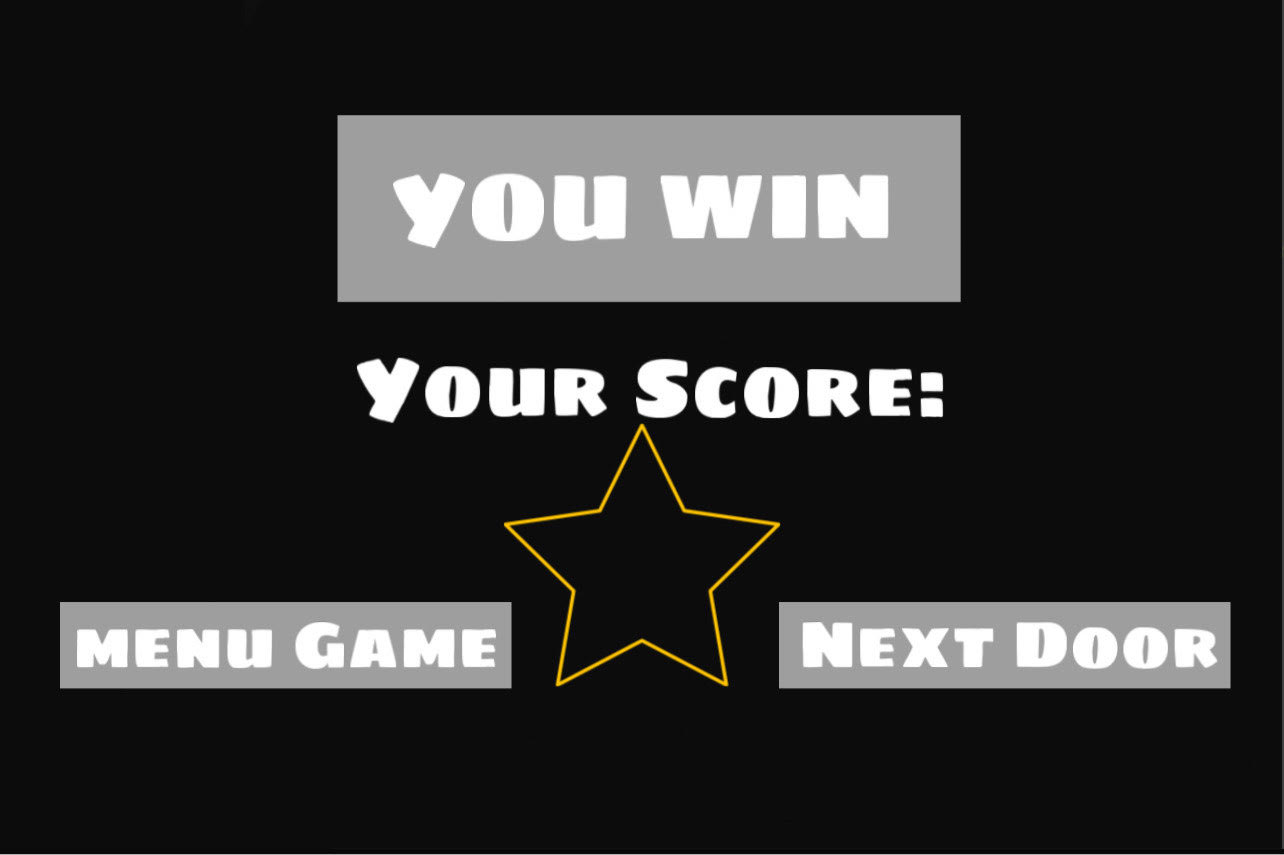
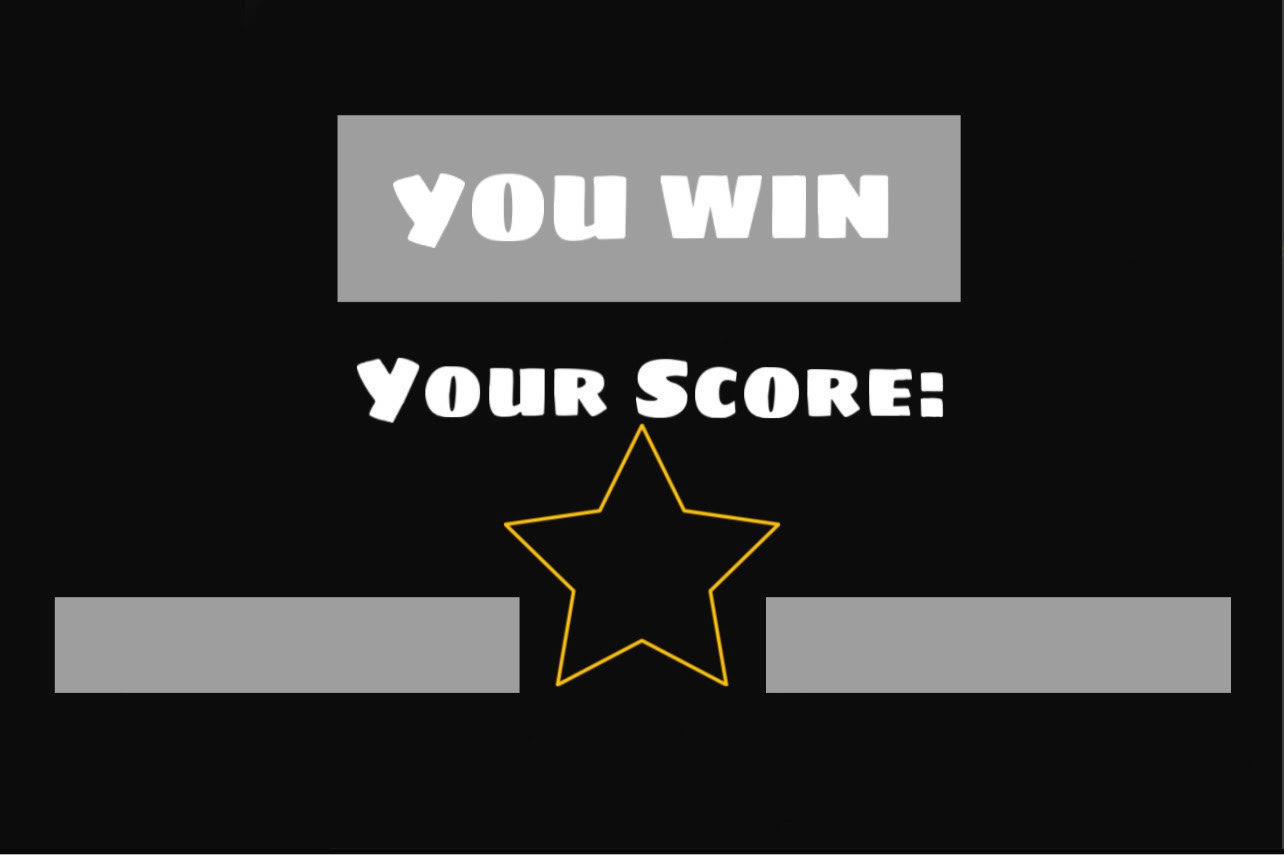
Almost done

Changed region(s): [[0.5919, 0.6994, 0.9657, 0.8211], [0.0312, 0.6994, 0.405, 0.8211]]

diff --git a/begining with SDL/Menu.h b/begining with SDL/Menu.h
@@ -106,31 +106,47 @@ public:
         SDL_Event event;
         int x, y;
         while(true){
+            string s = to_string(Game::score);
             if(!Menu2_1){
 
             if(!Object::Get_stars){
                 SDL_RenderCopy(Game::renderer, Graphics::loadTexture("Assets/You_win_gold.png"), NULL, NULL);
                 SDL_RenderPresent(Game::renderer);
+                Write_menu(s.c_str(), 430, 390, 60, 100, color2);
             }
             else{
                 SDL_RenderCopy(Game::renderer, Graphics::loadTexture("Assets/You_win_nomal.png"), NULL, NULL);
                 SDL_RenderPresent(Game::renderer);
+                Write_menu(s.c_str(), 430, 390, 60, 100, color2);
             }
             }
             if(!Menu2_2) Menu_back=true;
             while(true){
-               //     cerr << x << " " << y << endl;
+                cerr << x << " " << y << endl;
                 SDL_GetMouseState(&x, &y);
                 SDL_PollEvent(&event);
+                if(x>=40 && x<=385 && y>=450 && y <= 515) Write_menu("Menu", 150, 440, 80, 120, color2);
+                else{
+                    Write_menu("Menu", 150, 440, 80, 120, color1);
+                }
+                if(x>=580 && x<=930 && y>= 450 && y <= 515) Write_menu("Next Door", 700, 440, 80, 140, color2);
+                else{
+
+                    Write_menu("Next Door", 700, 440, 80, 140, color1);
+                }
+
                 switch (event.type) {
                     case SDL_MOUSEBUTTONDOWN:
-                        Menu2 = false;
-                        Menu_back = false;
-                        Menu1 = false;
-                        Game::starst = true;
-                        Game::end_game = false;
+                        if(x>=40 && x<=385 && y>=450 && y <= 515){
+                            Menu2 = false;
+                            Menu_back = false;
+                            Menu1 = false;
+                            Game::starst = true;
+                            Game::end_game = false;
+                            Object::Get_stars = true;
+                            return 1;
+                        }
 
-                        return 1;
                 }
 
         }

diff --git a/begining with SDL/Object.cpp b/begining with SDL/Object.cpp
@@ -30,7 +30,9 @@ void Object::attack_x(){
     Graphics::Draw(objTexture, destRect, angle);
     destRect.y = 320 - 32 + 32*3;
     destRect.x += 2;
-
+    if(Game::end_game){
+        destRect.x = 0 - 32*2;
+    }
     if(destRect.x >= 960)
     {
         shot = false;
@@ -147,7 +149,6 @@ void Object::update() {
     if(destRect.y >= 0 && destRect.y <= 64 && destRect.x >= 960 - 32*2){
         You_win = true;
         shot = false;
-        Get_stars = true;
         Game::end_game = true;
     }
 }

diff --git a/begining with SDL/main.cpp b/begining with SDL/main.cpp
@@ -32,6 +32,7 @@ int main(int argc, char * argv[]) {
                 MenuGame.Menu1_();
                 Game::starst = false;
                 Game::end_game = false;
+                Object::Get_stars = true;
         }
         if(!Game::end_game){
             if(MenuGame.Menu1){

diff --git a/begining with SDL/Game.cpp b/begining with SDL/Game.cpp
@@ -97,6 +97,9 @@ void Game::render() {
     if(Object::shot){
         Rocket_x1->attack_x();
     }
+    if(Game::end_game){
+        Rocket_x1->attack_x();
+    }
 
     if(!Player->Get_stars){
         Stars_gold_1->render();
